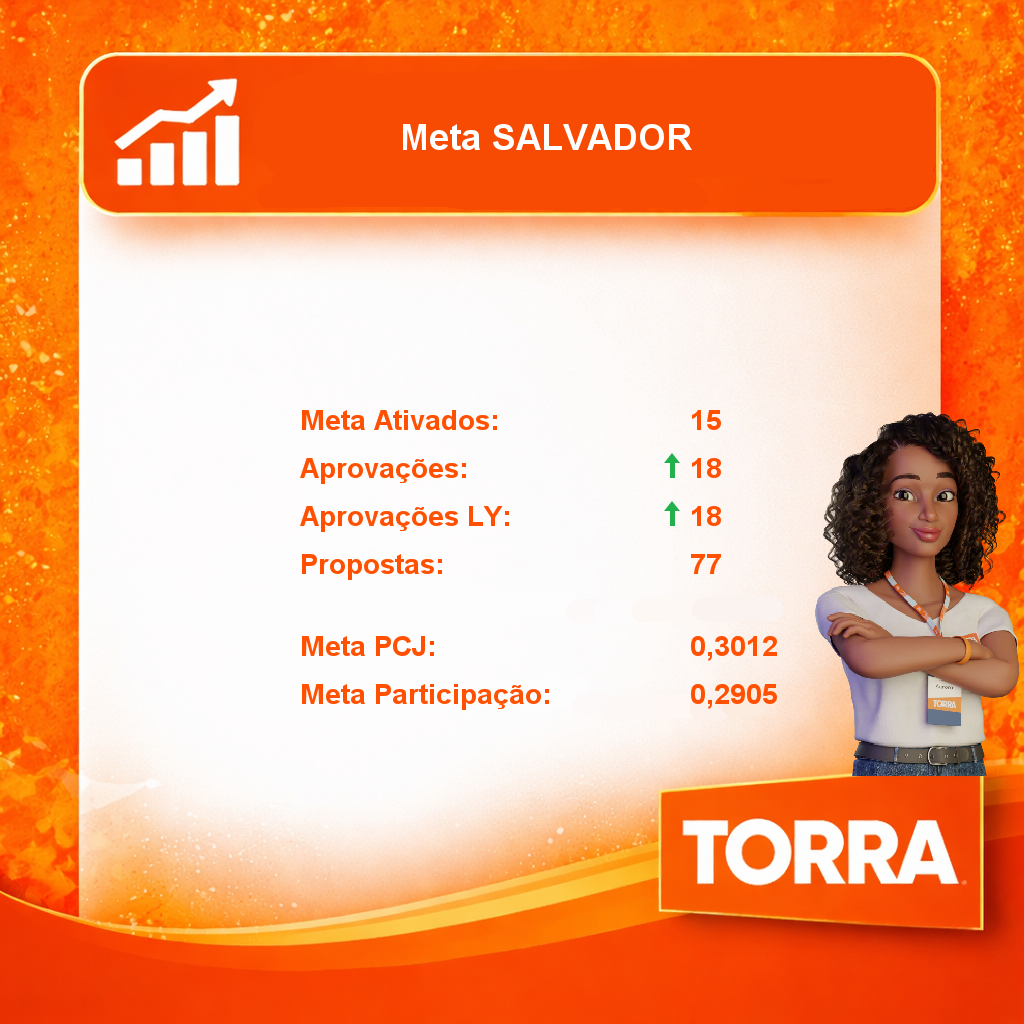
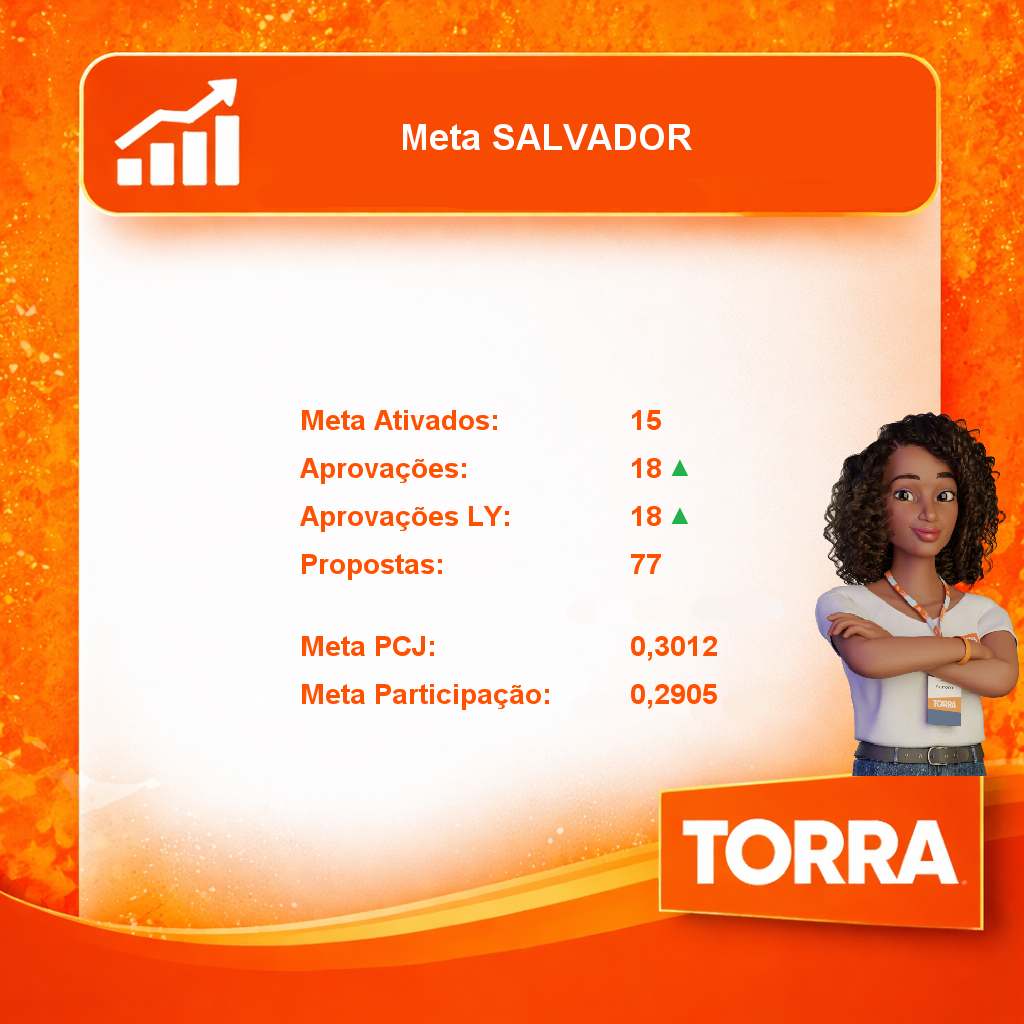
feat: ajustando porcentagem da meta

Changed region(s): [[0.625, 0.4062, 0.7188, 0.5625], [0.5938, 0.625, 0.7812, 0.6875]]

diff --git a/src/main/java/br/com/torra/whatsapp/service/ImageGeneratorService.java b/src/main/java/br/com/torra/whatsapp/service/ImageGeneratorService.java
@@ -4,7 +4,6 @@ import br.com.torra.whatsapp.model.MetricStatus;
 import br.com.torra.whatsapp.model.StoreNotificationData;
 
 import javax.imageio.ImageIO;
-import java.awt.BasicStroke;
 import java.awt.Color;
 import java.awt.Font;
 import java.awt.Graphics2D;
@@ -62,8 +61,10 @@ public class ImageGeneratorService {
         int lineHeight = 48;
 
         int labelX = 300;
-        int valueX = 690;
-        int arrowX = valueX - 40; // seta à esquerda do valor
+        int valueX = 630;
+        int arrowX = valueX + 38;
+
+        
 
         Color primaryColor = new Color(255, 81, 1);
         Font labelFont = new Font("Roboto", Font.BOLD, 28);
@@ -175,7 +176,7 @@ public class ImageGeneratorService {
 
         if (actualValue != null && targetValue != null) {
             MetricStatus status = metricEvaluator.evaluate(actualValue, targetValue);
-            drawStatusArrow(graphics, status, xArrow, y - 25);
+            drawStatusArrow(graphics, status, xArrow, y);
         }
     }
 
@@ -183,42 +184,18 @@ public class ImageGeneratorService {
         Color green = new Color(34, 177, 76);
         Color red = new Color(220, 53, 69);
 
+        Font arrowFont = new Font("Arial", Font.BOLD, 24);
+        graphics.setFont(arrowFont);
+
         if (status == MetricStatus.GOOD) {
+   
             graphics.setColor(green);
-            drawUpArrow(graphics, x, y, 22, 22);
+            graphics.drawString("▲", x, y - 2);
             return;
         }
 
         graphics.setColor(red);
-        drawDownArrow(graphics, x, y, 22, 22);
-    }
-
-    private void drawUpArrow(Graphics2D graphics, int x, int y, int width, int height) {
-        graphics.setStroke(new BasicStroke(5));
-
-        int centerX = x + (width / 1);
-        int topY = y;
-        int bottomY = y + height;
-
-        graphics.drawLine(centerX, bottomY, centerX, y + 10);
-
-        int[] arrowHeadX = { centerX, centerX - 8, centerX + 8 };
-        int[] arrowHeadY = { topY, topY + 10, topY + 10 };
-        graphics.fillPolygon(arrowHeadX, arrowHeadY, 3);
-    }
-
-    private void drawDownArrow(Graphics2D graphics, int x, int y, int width, int height) {
-        graphics.setStroke(new BasicStroke(5));
-
-        int centerX = x + (width / 2);
-        int topY = y;
-        int bottomY = y + height;
-
-        graphics.drawLine(centerX, topY, centerX, bottomY - 10);
-
-        int[] arrowHeadX = { centerX, centerX - 8, centerX + 8 };
-        int[] arrowHeadY = { bottomY, bottomY - 10, bottomY - 10 };
-        graphics.fillPolygon(arrowHeadX, arrowHeadY, 3);
+        graphics.drawString("▼", x, y);
     }
 
     private Double safeParse(String value) {
